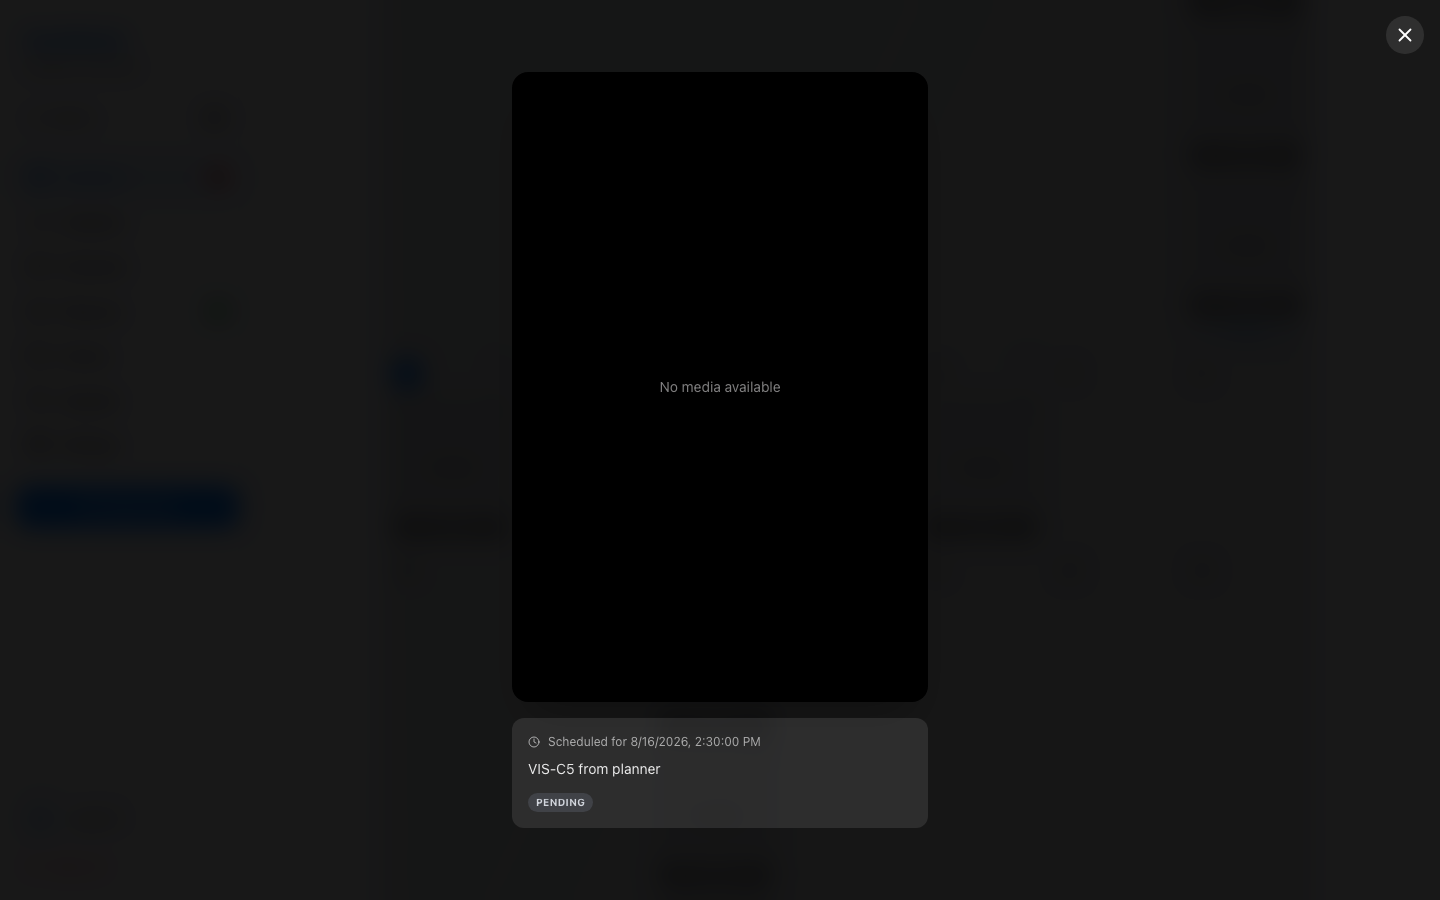
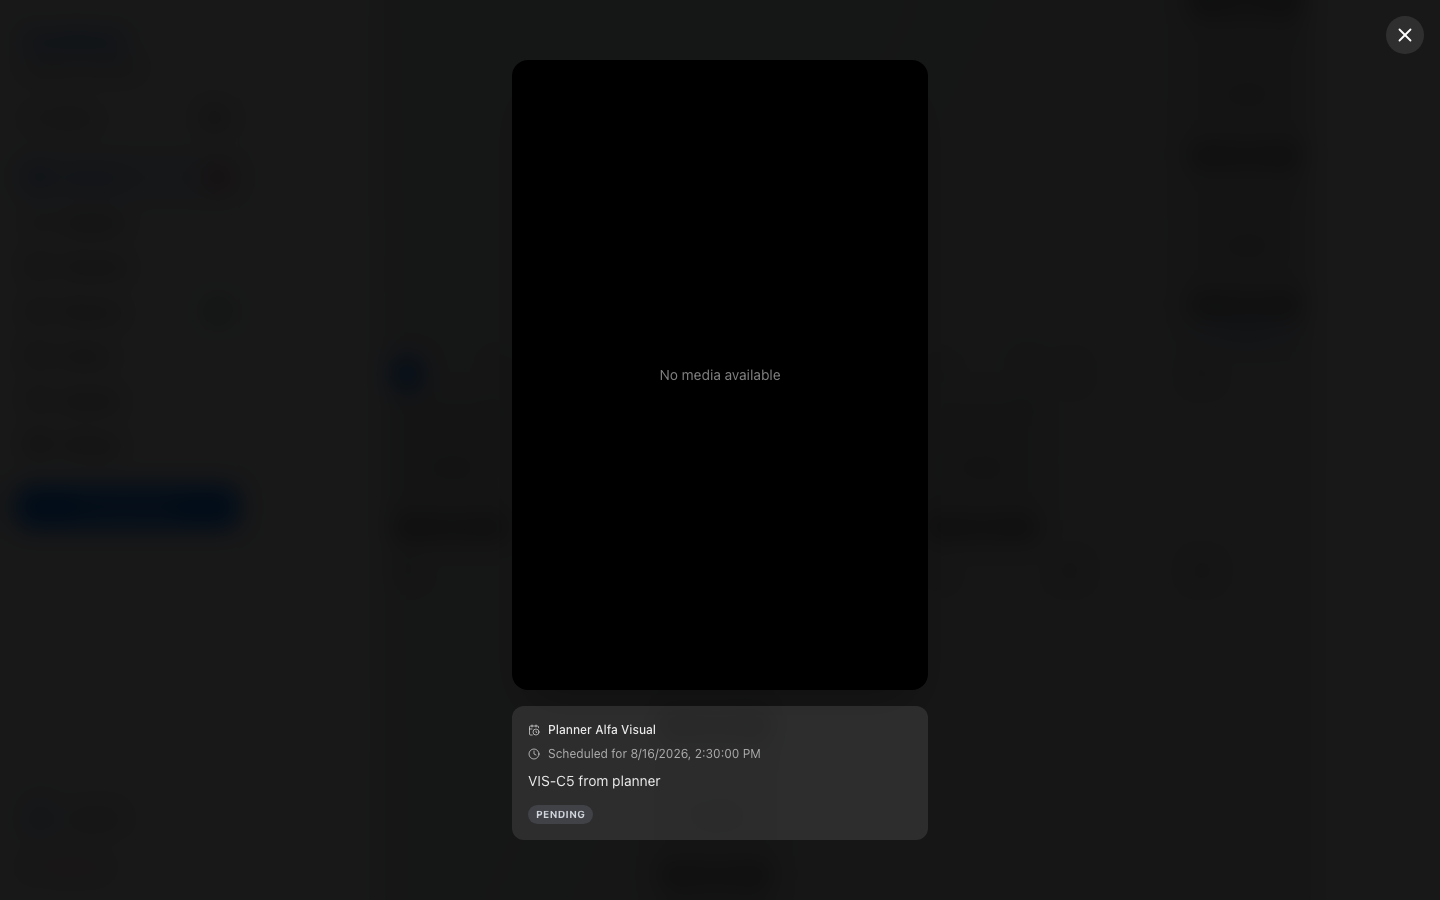
test(gauntlet): mod5 WON — C1-C9 ALL PASS (planner name in preview modal; TZ trap avoided; perf stable)

Changed region(s): [[0.3438, 0.7778, 0.6562, 0.9333], [0.4375, 0.4044, 0.5625, 0.4356]]

diff --git a/gauntlet-runs/module-05-calendar/gates/round-121810-baseline.md b/gauntlet-runs/module-05-calendar/gates/round-121810-baseline.md
@@ -1,0 +1,55 @@
+# Calendar baseline — 2026-08-16T15:18:10Z
+
+Mode: prod | Commit: 712a6aa
+Evidence dir: /var/folders/28/xppyht0s0w9cmfv134s0zxcm0000gn/T//calendar-gauntlet.rup6kK
+
+## C1-C6 (invariant harness)
+
+```
+SCENARIO C1: PASS — window: 4 posts (A,B,C,pub in; before/after/null excluded) ordered=true fields=true | edges: start>end=200/0 missing=400 badDate=400 limit=2→2 status=published→1 no500=true
+SCENARIO C2: PASS — move: true pastRejected=true(400) concurrent: 200/200 final∈{3h,4h}=true publishedProtected=true(400) intervalViolationAllowedAtSchedulingLayer=true
+SCENARIO C3: PASS — delete: 200 inBefore=true rowGone=true inAfter=true again=404 channelIntact=true plannerIntact=true
+SCENARIO C4: PASS — statuses returned: cancelled,failed,pending,processing,processing_children,processing_upload,published,ready_to_publish,scheduled (expected cancelled,failed,pending,processing,processing_children,processing_upload,published,ready_to_publish,scheduled) → all=true
+SCENARIO C5: PASS — planner post: found=true planner_id=cal-planner-5 channel_id=cal-chan-5 (modal planner-name rendering is checked in the visual part)
+SCENARIO C6: PASS — 340 posts window (300 monthly + 40 burst) → 340 (burst day = 40/40) limit=250→250
+
+=== SUMMARY ===
+C1: PASS — window: 4 posts (A,B,C,pub in; before/after/null excluded) ordered=true fields=true | edges: start>end=200/0 missing=400 badDate=400 limit=2→2 status=published→1 no500=true
+C2: PASS — move: true pastRejected=true(400) concurrent: 200/200 final∈{3h,4h}=true publishedProtected=true(400) intervalViolationAllowedAtSchedulingLayer=true
+C3: PASS — delete: 200 inBefore=true rowGone=true inAfter=true again=404 channelIntact=true plannerIntact=true
+C4: PASS — statuses returned: cancelled,failed,pending,processing,processing_children,processing_upload,published,ready_to_publish,scheduled (expected cancelled,failed,pending,processing,processing_children,processing_upload,published,ready_to_publish,scheduled) → all=true
+C5: PASS — planner post: found=true planner_id=cal-planner-5 channel_id=cal-chan-5 (modal planner-name rendering is checked in the visual part)
+C6: PASS — 340 posts window (300 monthly + 40 burst) → 340 (burst day = 40/40) limit=250→250
+
+TOTAL: 6/6 pass
+server log crash-signal lines: 0
+```
+
+## C7/C8 (visual — console errors + TZ placement)
+
+```
+SCENARIO C4: PASS — status badge "9" (expected 9) consoleErrors=0 pageErrors=0
+SCENARIO C5: PASS — day modal open=true caption=true plannerNameRendered=true (bar: planner name REQUIRED in modal)
+SCENARIO C7: PASS — week=true nav(August 2026→September 2026→August 2026) mobileHScroll=0px consoleErrors=0 pageErrors=0
+SCENARIO C8: PASS — TZ placement: post at 22:00 local → local day 20 cell cards=1 (badge 1) utc day 21 cell cards=0 → trap=avoided sampleTimes=["No Media09:00 AM","No Media10:00 AM","No Media11:00 AM","No Media02:30 PM","No Media10:00 PM","No Media09:00 AM","No Media09:10 AM","No Media09:20 AM"]
+SCENARIO C6-render: PASS — 40-post burst day: "+N more" chip visible=true
+```
+
+## C9 (perf baseline)
+
+```
+seeded 340 posts
+SCENARIO C9: renderMs=150 fcpMs=120 maxFrameGapMs=107 framesOver200=0/6 consoleErrors=0
+{"seeded":340,"renderMs":150,"fcpMs":120,"maxFrameGapMs":107,"framesOver200ms":0,"totalFrames":6,"consoleErrors":[],"measuredAt":"2026-08-16T15:18:09.993Z"}
+```
+
+## server.log greps
+
+- ENOENT: 0
+- Unhandled/TypeError: 0
+- '[api-error]' lines: 0
+
+## server.log (matching error lines, first 60)
+
+```
+```
